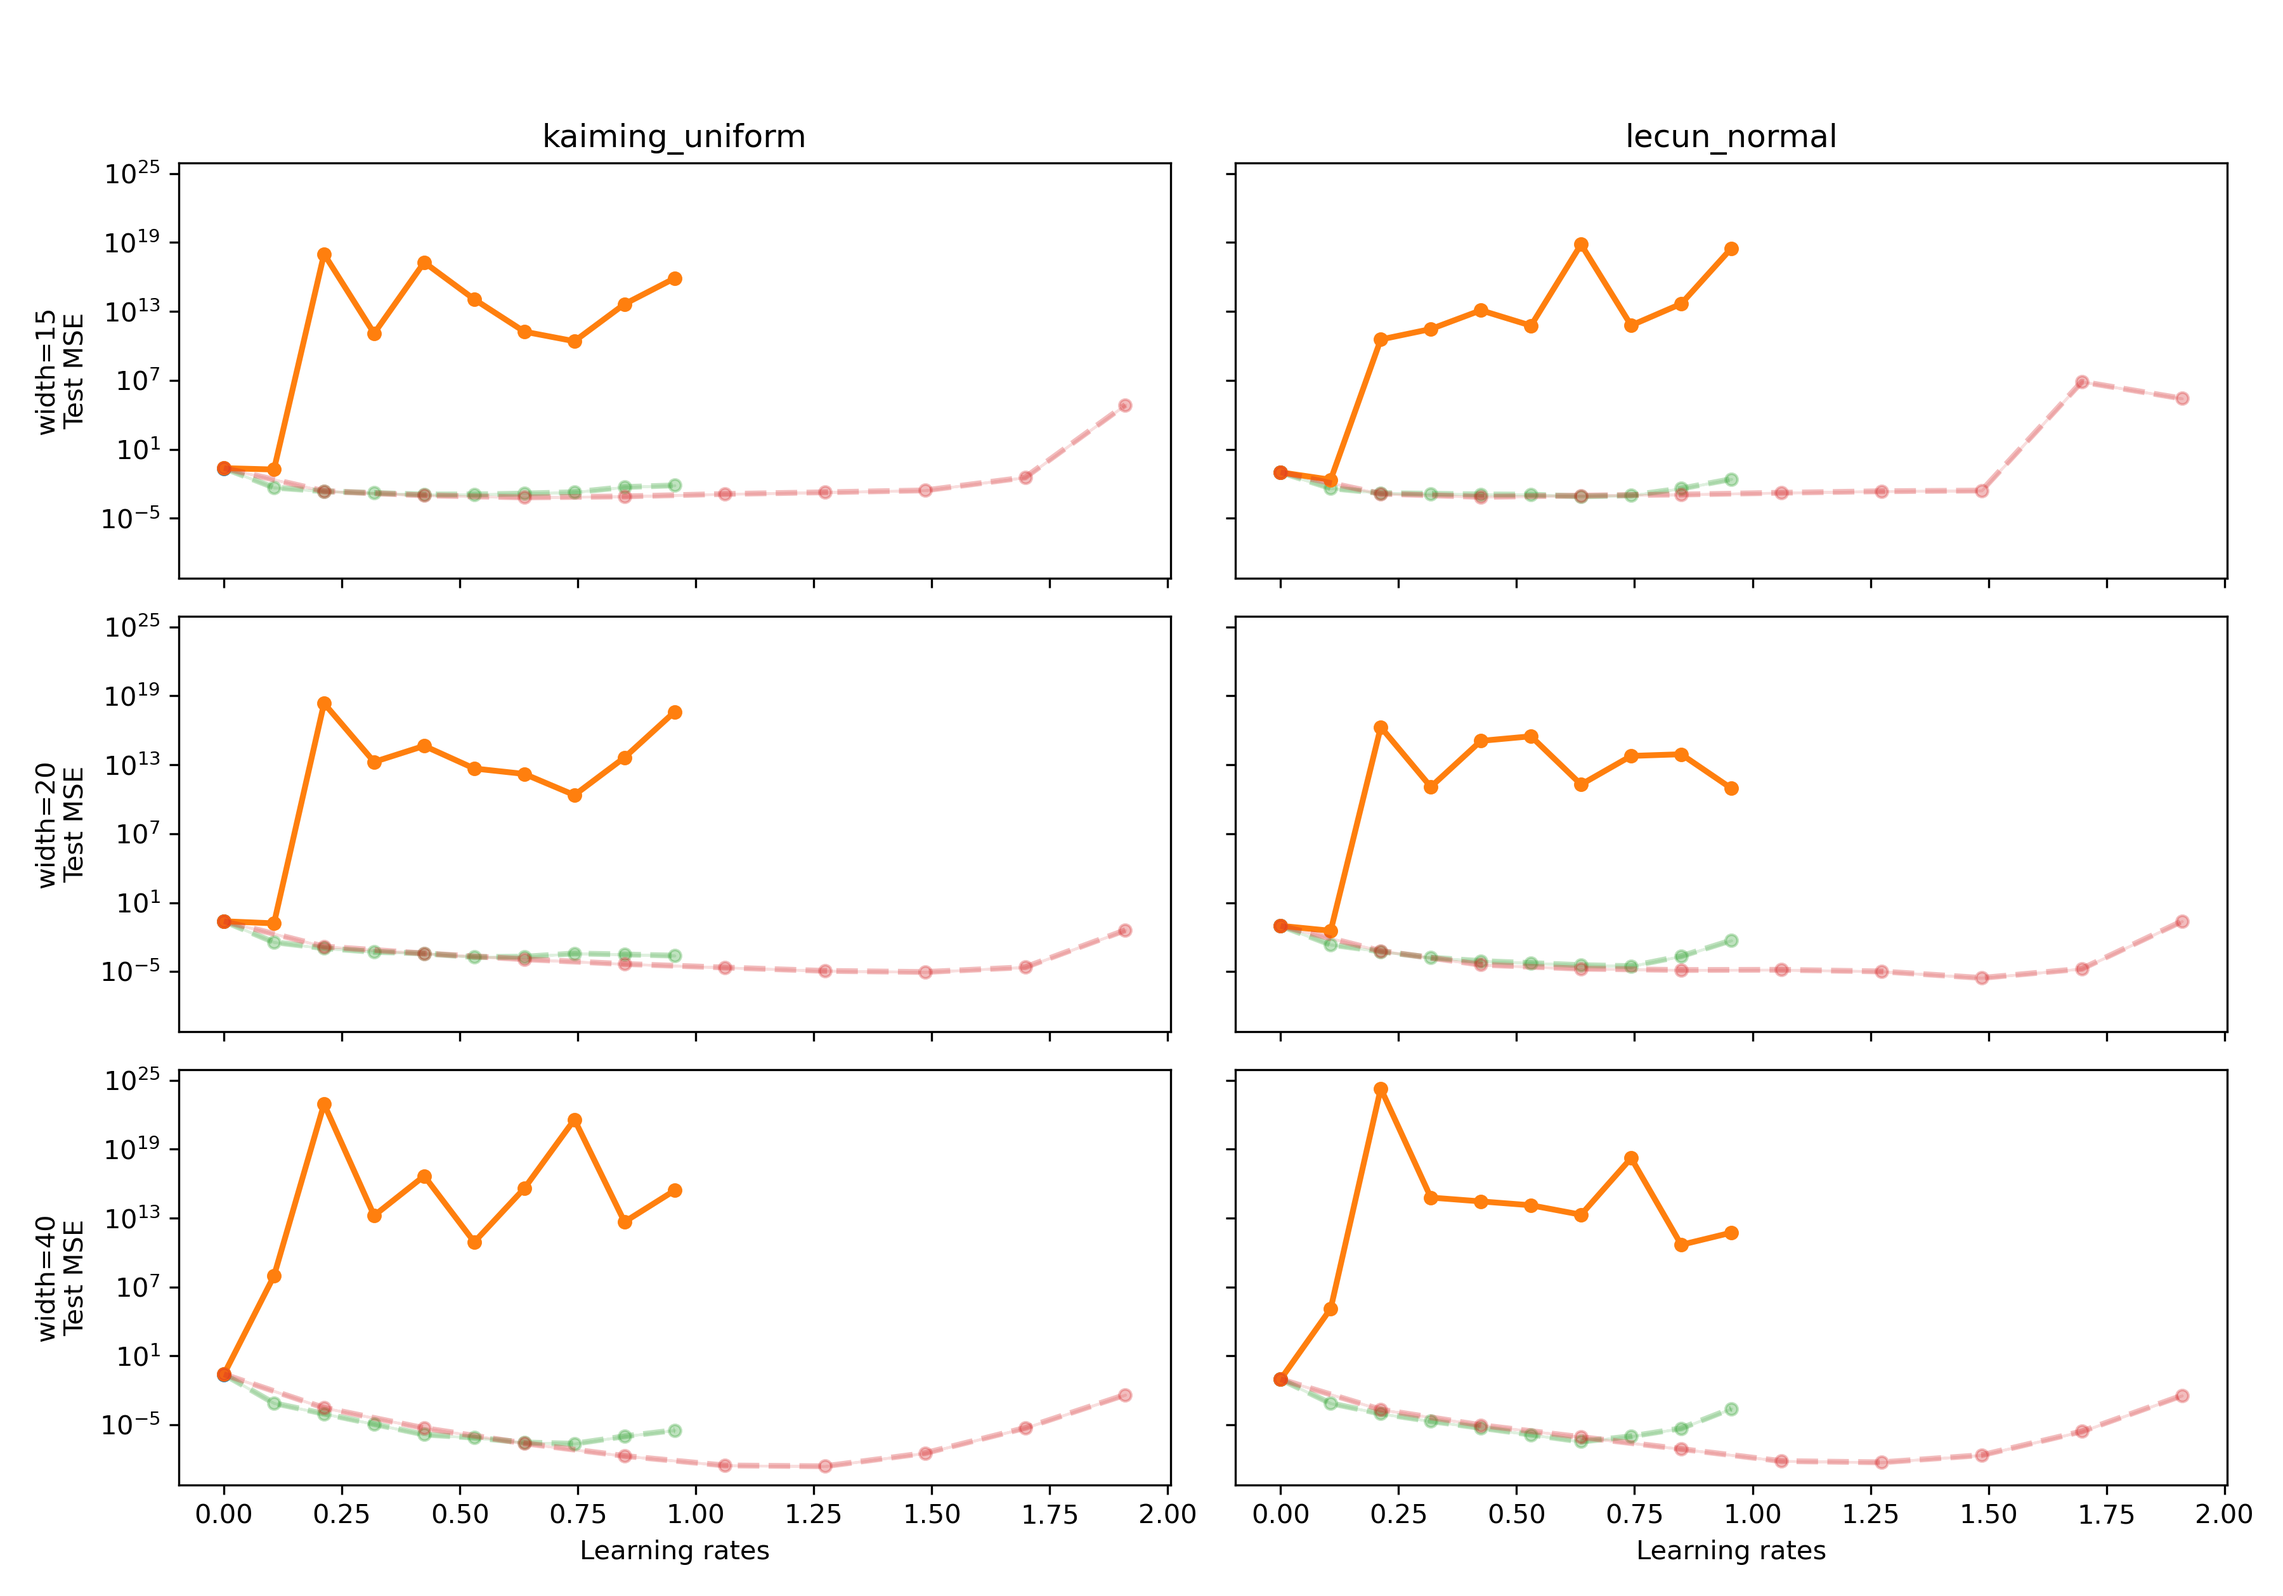
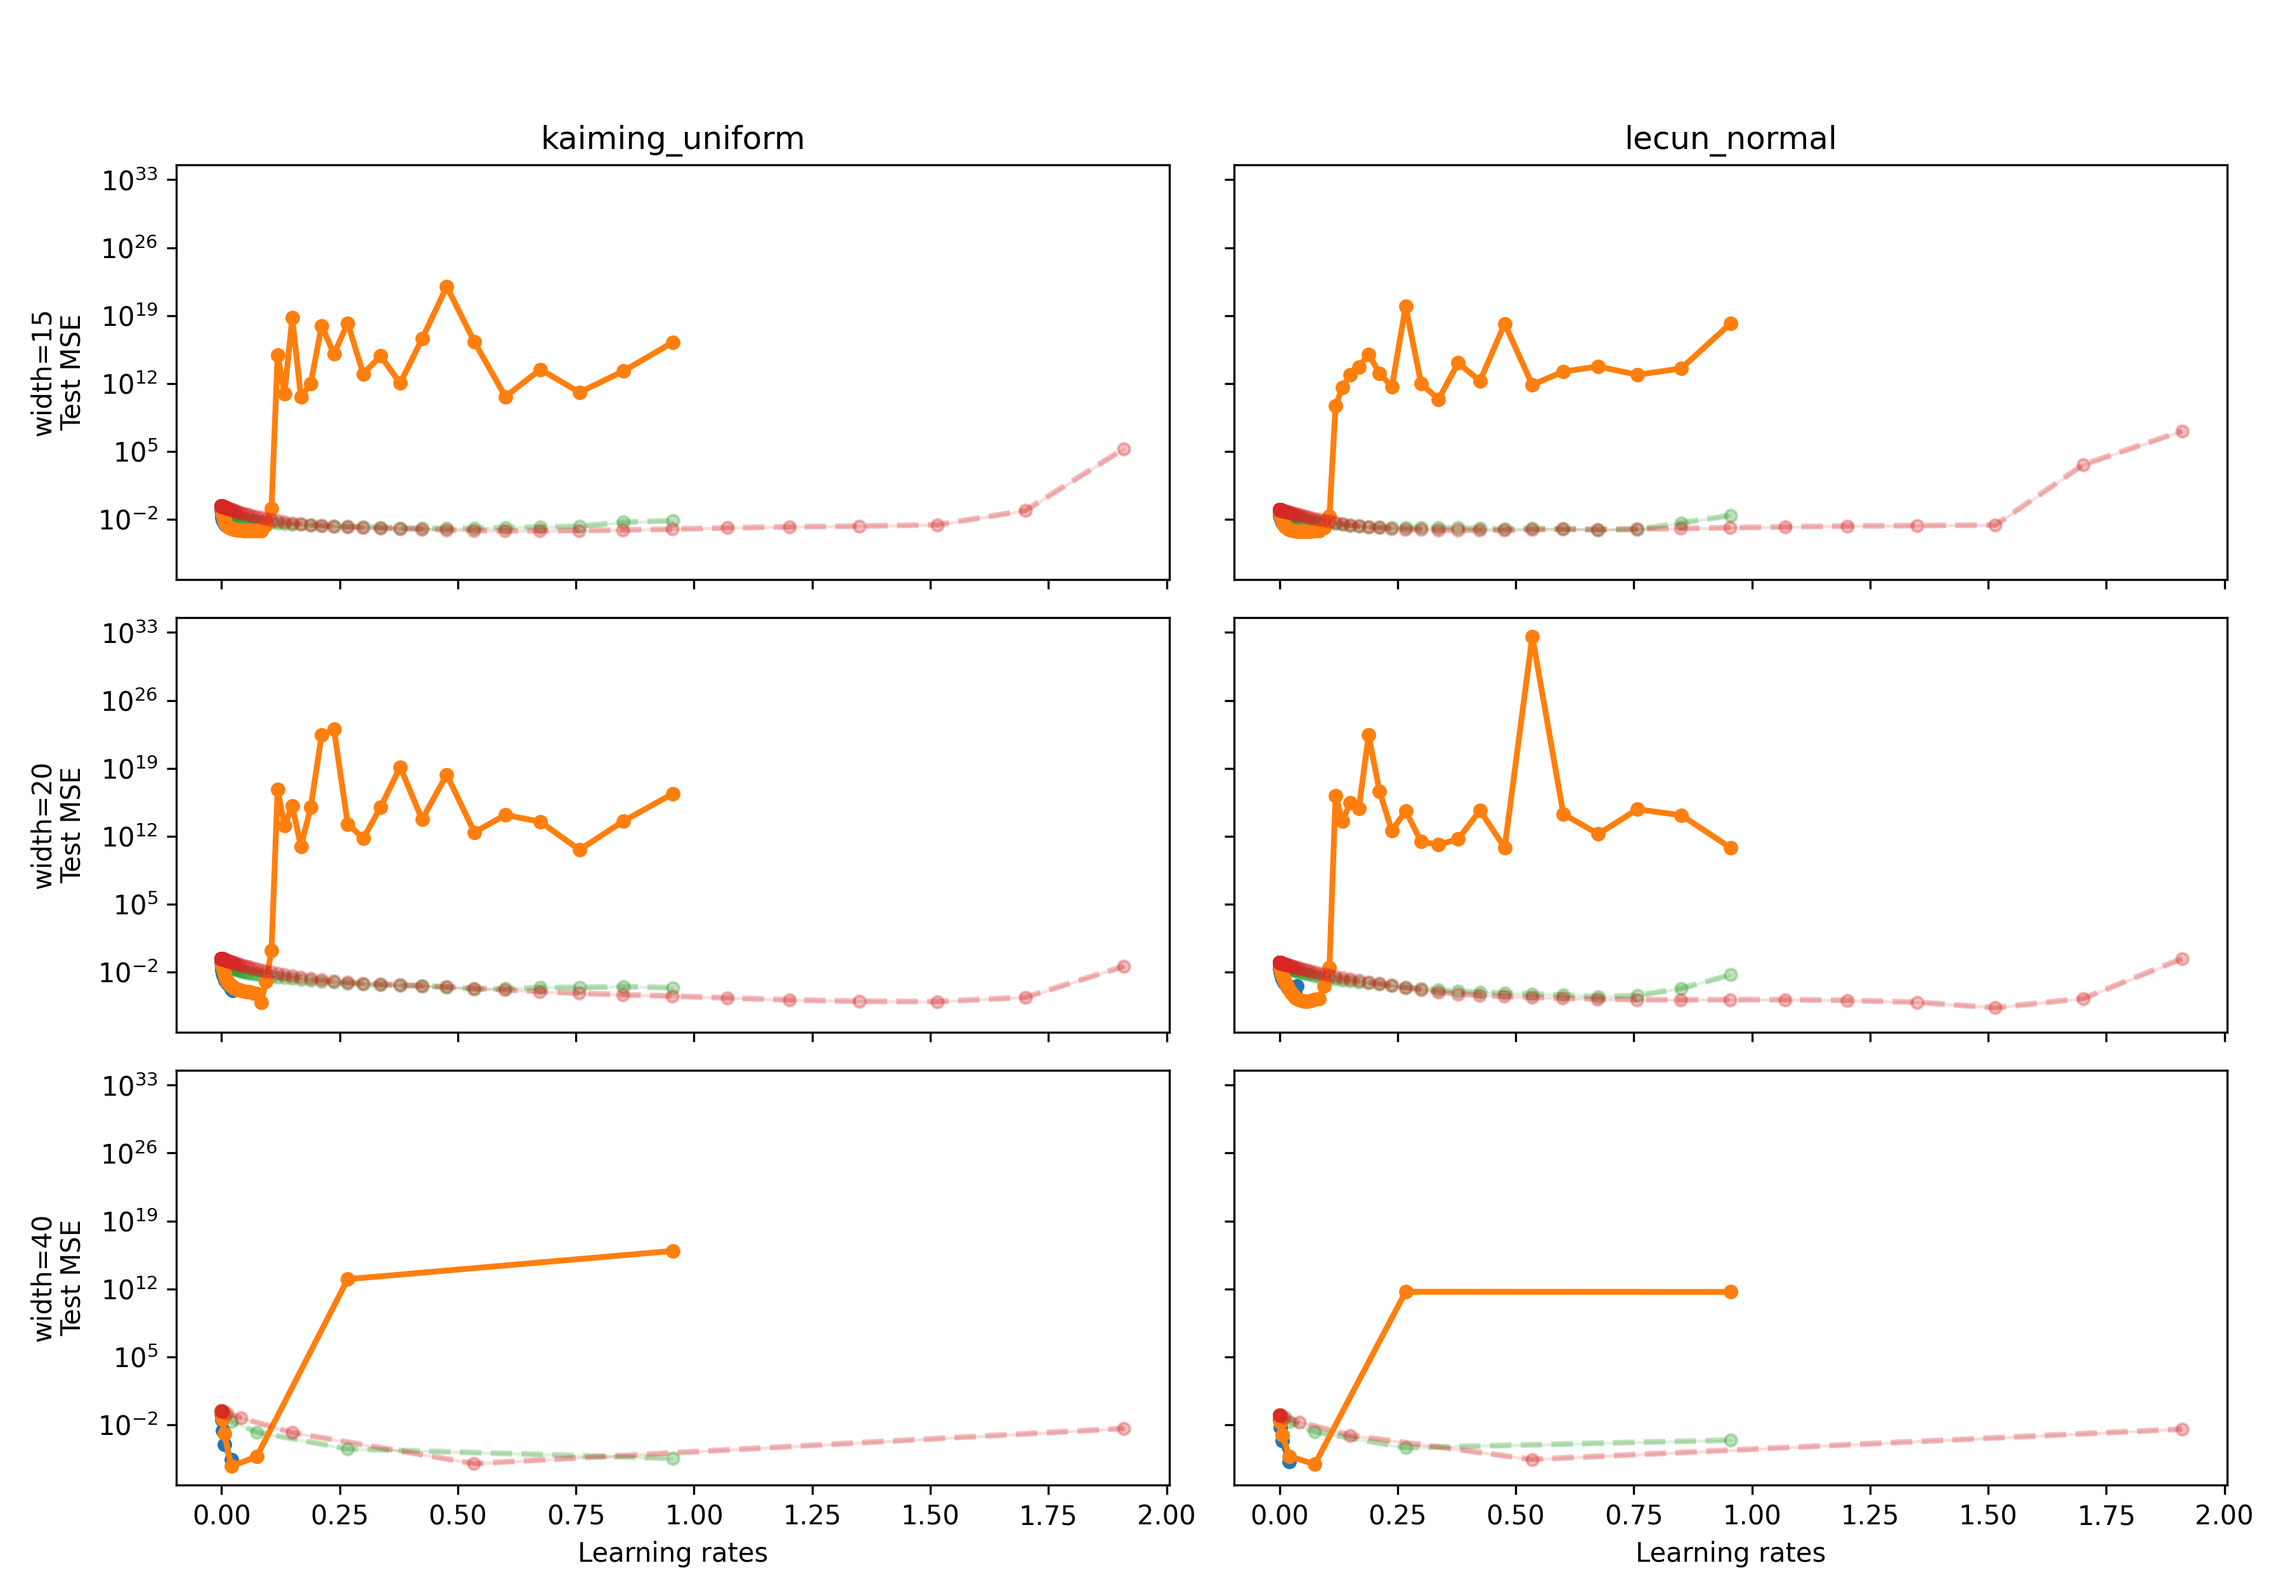
.

diff --git a/Figure3/online.py b/Figure3/online.py
@@ -516,8 +516,8 @@ for seed in seeds:
             eval_every      = 100#00
 
             # LR grid (base grid; we optionally amplify for some models)
-            lrs = np.linspace(10**(-5), 10**(-0.02), 10) #70) #(-2.9, -0.04, 15)  # ~ 1e-4 ... 1.6e-1
-            #lrs = np.logspace(-5,-0.02,10)
+            #lrs = np.linspace(10**(-5), 10**(-0.02), 10) #70) #(-2.9, -0.04, 15)  # ~ 1e-4 ... 1.6e-1
+            lrs = np.logspace(-5,-0.02,100)
 
             # Optional LR scaling knobs (keep if you want)
             amplify_lr_BP_scaled = 1#2       # for "(scaled lr)" variants
@@ -531,7 +531,8 @@ for seed in seeds:
             eval_every      = 100#00
 
             # LR grid (base grid; we optionally amplify for some models)
-            lrs = np.linspace(10**(-5), 10**(-0.02), 10)# 70) #(-2.9, -0.04, 15)  # ~ 1e-4 ... 1.6e-1
+            #lrs = np.linspace(10**(-5), 10**(-0.02), 10)# 70) #(-2.9, -0.04, 15)  # ~ 1e-4 ... 1.6e-1
+            lrs = np.logspace(-5, -0.02, 100)
 
             # Optional LR scaling knobs (keep if you want)
             amplify_lr_BP_scaled = 1#2       # for "(scaled lr)" variants
@@ -546,7 +547,9 @@ for seed in seeds:
 
             # LR grid (base grid; we optionally amplify for some models)
             #lrs = np.linspace(10**(-5), 10**(-0.02), 10) #(-2.9, -0.04, 15)  # ~ 1e-4 ... 1.6e-1
-            lrs = np.linspace(10**(-5), 10**(-0.02), 10)#70)
+            #lrs = np.linspace(10**(-5), 10**(-0.02), 10)#70)
+            lrs = np.logspace(-5, -0.02, 10)
+            
             
 
             # Optional LR scaling knobs (keep if you want)
